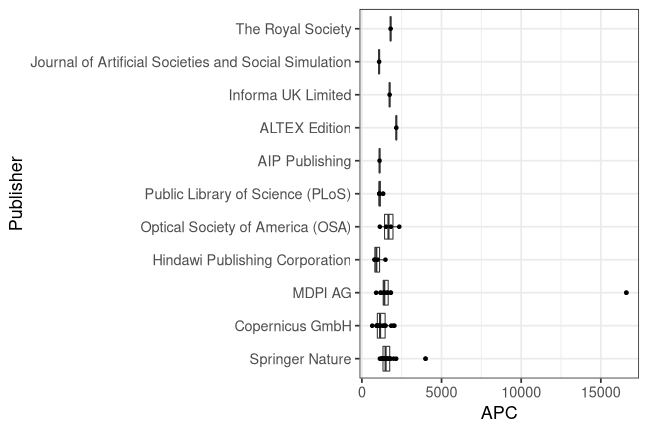
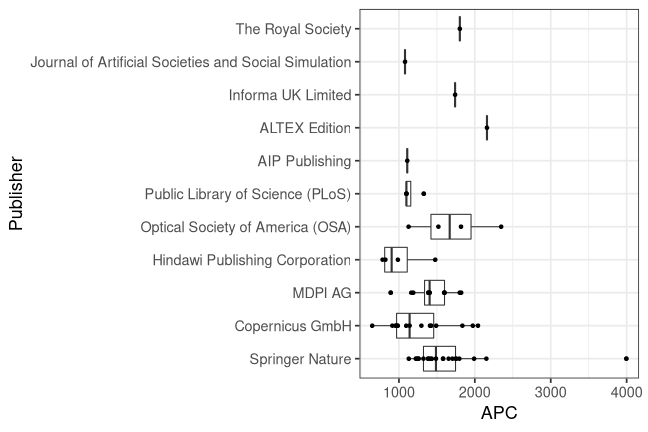
update: lib4ri apc data 2009 - 2016

diff --git a/_posts/2022-02-25-lib4ri.md b/_posts/2022-02-25-lib4ri.md
@@ -22,7 +22,7 @@ Contact persons are [Jochen Bihn and Sarah Last](mailto:openaccess@lib4ri.ch).
 
 
 
-The new data set covers publication fees for 99 articles published at Empa and Eawag from 2009 to 2016. Total expenditure amounts to 164,355€ and the average fee is 1,660€. The following tables and plots provide more details.
+The new data set covers publication fees for 99 articles published at Empa and Eawag from 2009 to 2016. Total expenditure amounts to 149,355€ and the average fee is 1,509€. The following tables and plots provide more details.
 
 ### Empa - Swiss Federal Laboratories for Materials Science and Technology
 
@@ -31,7 +31,7 @@ The new data set covers publication fees for 99 articles published at Empa and E
 |:-----------------------------------------------------|--------:|-----------------:|-------------:|
 |Springer Nature                                       |       21|             34493|          1642|
 |Copernicus GmbH                                       |       15|             19151|          1277|
-|MDPI AG                                               |       12|             32243|          2687|
+|MDPI AG                                               |       12|             17243|          1437|
 |Hindawi Publishing Corporation                        |        4|              4071|          1018|
 |Optical Society of America (OSA)                      |        4|              6812|          1703|
 |Public Library of Science (PLoS)                      |        4|              4622|          1156|
